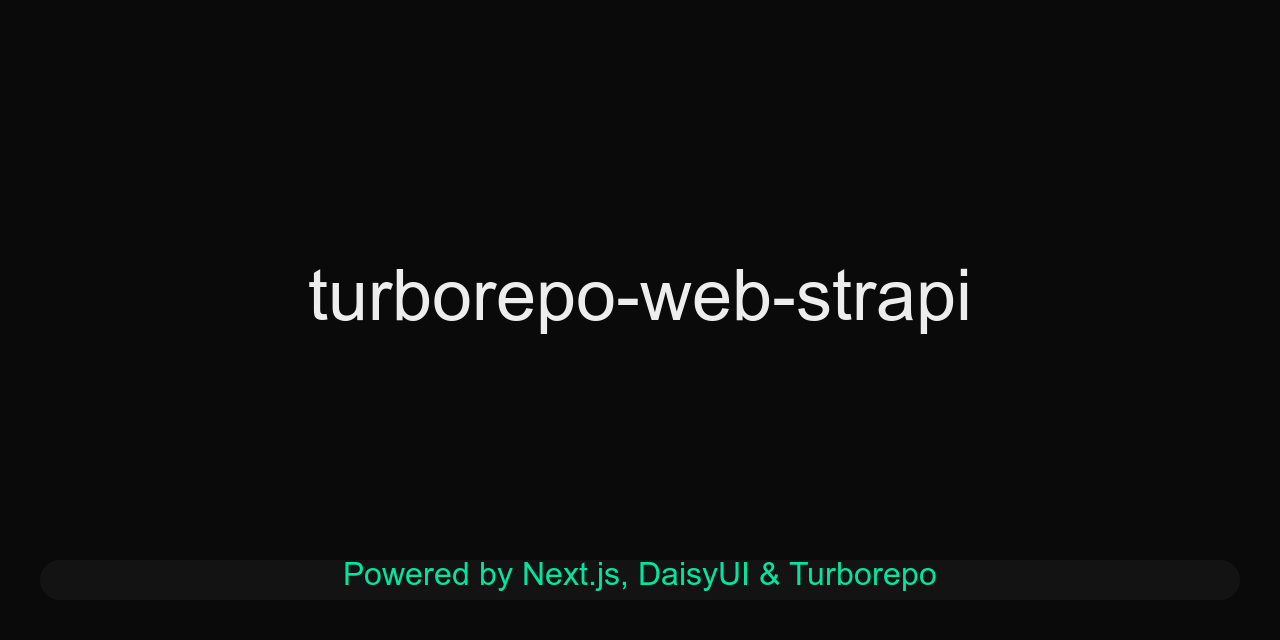
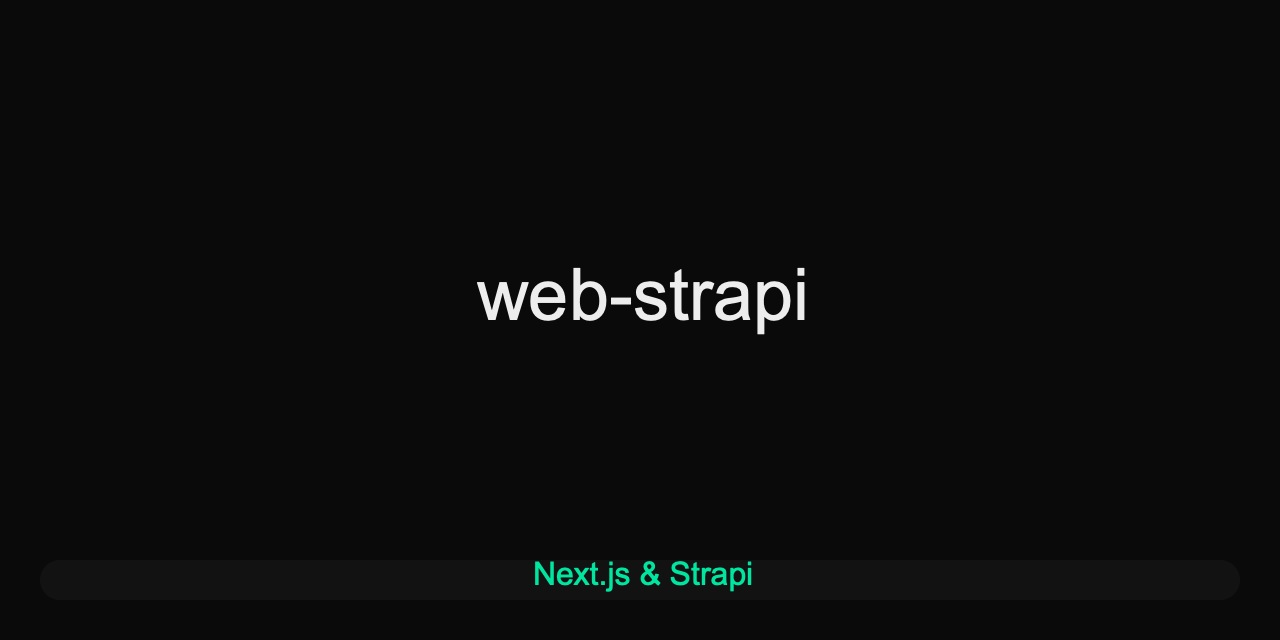
✨ feat: update heading text, remove DaisyUI, clean up web app files, and update assets

Changed region(s): [[0.2188, 0.4062, 0.7812, 0.5312], [0.25, 0.875, 0.75, 0.9375]]

diff --git a/apps/web/README.md b/apps/web/README.md
@@ -1,36 +1,52 @@
-This is a [Next.js](https://nextjs.org) project bootstrapped with [`create-next-app`](https://nextjs.org/docs/app/api-reference/create-next-app).
+# Web App (Next.js)
+
+This is the `web` app in the monorepo, built with [Next.js](https://nextjs.org) and [Tailwind CSS](https://tailwindcss.com/).
+
+## Features
+
+- Next.js 15 (App Router)
+- Tailwind CSS (with custom global styles)
+- TypeScript
+- PostCSS (with Tailwind and Autoprefixer)
+- Monorepo setup (see root README)
 
 ## Getting Started
 
-First, run the development server:
+Install dependencies from the monorepo root:
 
 ```bash
-npm run dev
-# or
-yarn dev
-# or
-pnpm dev
-# or
-bun dev
+pnpm install
 ```
 
-Open [http://localhost:3000](http://localhost:3000) with your browser to see the result.
+Run the development server (on port 3001):
 
-You can start editing the page by modifying `app/page.tsx`. The page auto-updates as you edit the file.
+```bash
+pnpm dev
+```
 
-This project uses [`next/font`](https://nextjs.org/docs/app/building-your-application/optimizing/fonts) to automatically optimize and load Inter, a custom Google Font.
+Open [http://localhost:3001](http://localhost:3001) to view the app.
+
+Edit `app/page.tsx` to update the homepage. Global styles are in `app/globals.css`.
+
+## Scripts
+
+- `pnpm dev` — Start dev server (port 3001)
+- `pnpm build` — Build for production
+- `pnpm start` — Start production server
+- `pnpm lint` — Lint code
+- `pnpm check-types` — Type-check project
+
+## Configuration
+
+- Tailwind config: `tailwind.config.ts`
+- PostCSS config: `postcss.config.mjs`
+- TypeScript config: `tsconfig.json`
 
 ## Learn More
 
-To learn more about Next.js, take a look at the following resources:
+- [Next.js Documentation](https://nextjs.org/docs)
+- [Tailwind CSS Documentation](https://tailwindcss.com/docs)
 
-- [Next.js Documentation](https://nextjs.org/docs) - learn about Next.js features and API.
-- [Learn Next.js](https://nextjs.org/learn) - an interactive Next.js tutorial.
+---
 
-You can check out [the Next.js GitHub repository](https://github.com/vercel/next.js) - your feedback and contributions are welcome!
-
-## Deploy on Vercel
-
-The easiest way to deploy your Next.js app is to use the [Vercel Platform](https://vercel.com/new?utm_medium=default-template&filter=next.js&utm_source=create-next-app&utm_campaign=create-next-app-readme) from the creators of Next.js.
-
-Check out our [Next.js deployment documentation](https://nextjs.org/docs/app/building-your-application/deploying) for more details.
+For monorepo and shared config details, see the root README.
